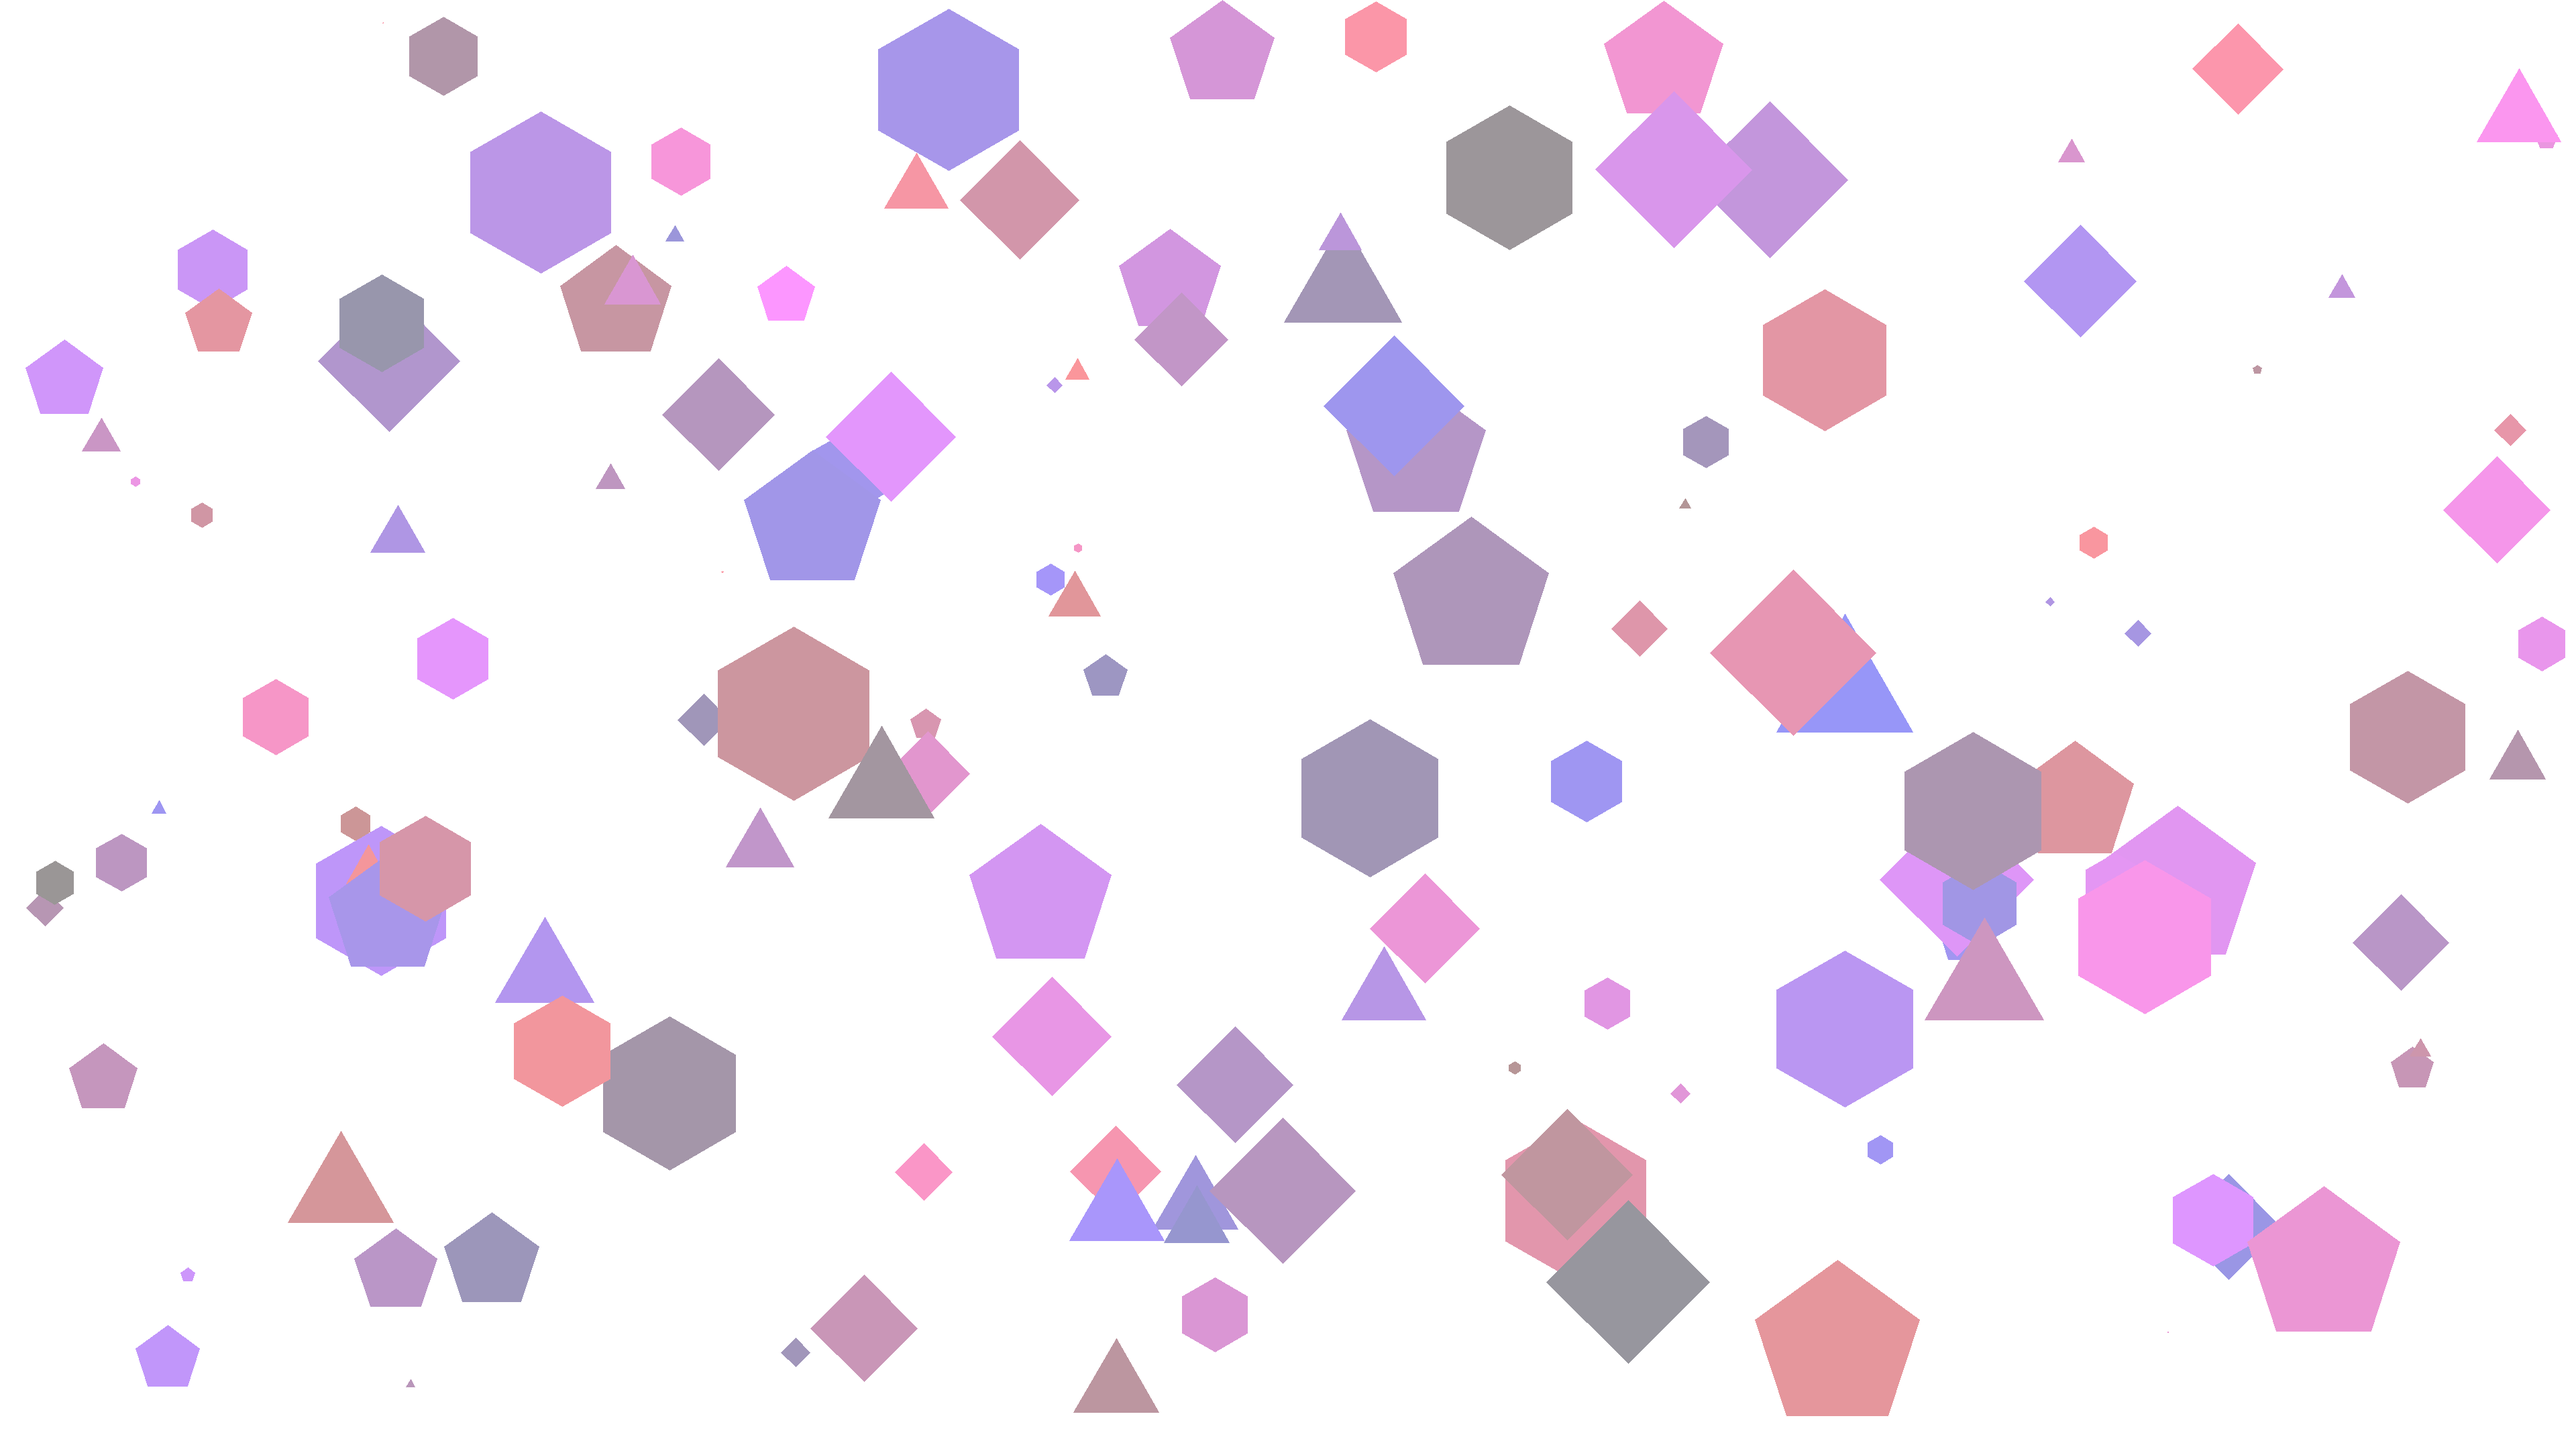
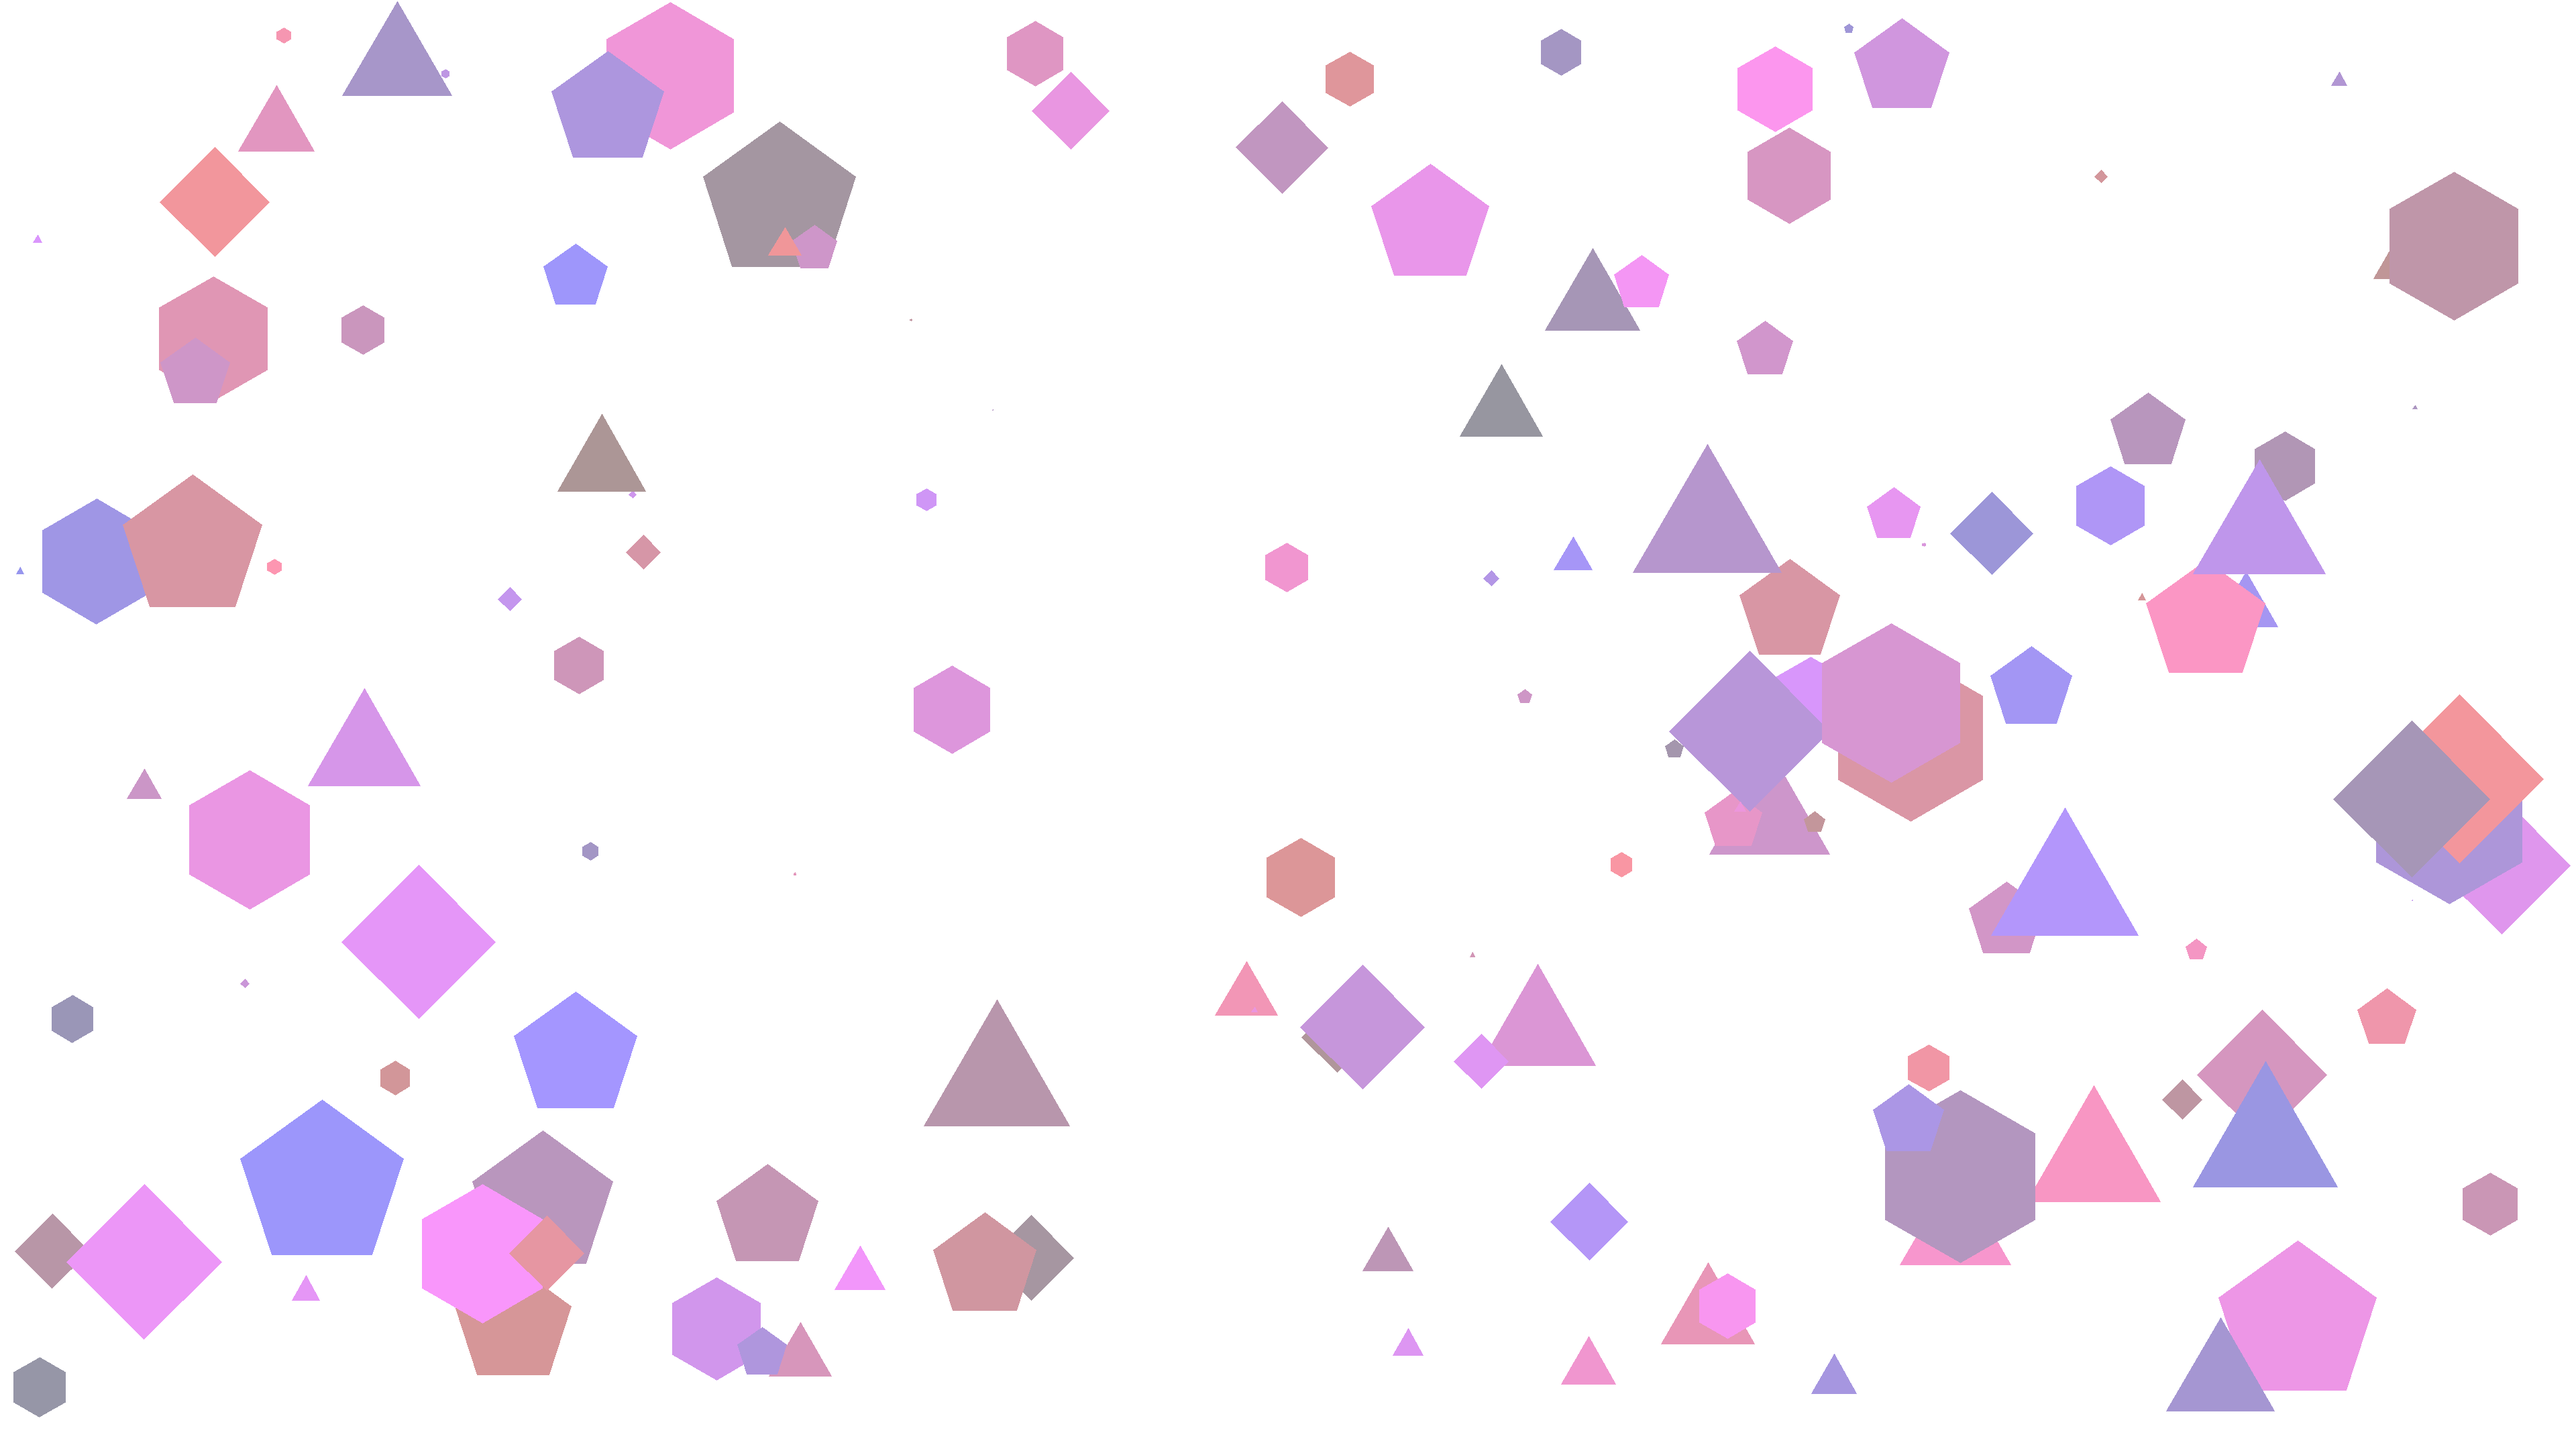
fixed transparency issues

diff --git a/allpages.js b/allpages.js
@@ -1,5 +1,5 @@
 setInterval(function() {
-  document.getElementsByClassName("layer1")[0].style.backgroundPositionY=window.scrollY+"px";
-  document.getElementsByClassName("layer2")[0].style.backgroundPositionY=window.scrollY*1.5+"px";
-  document.getElementsByClassName("layer3")[0].style.backgroundPositionY=window.scrollY*2+"px";
+  document.getElementsByClassName("layer1")[0].style.backgroundPositionY=window.scrollY*0.5+"px";
+  document.getElementsByClassName("layer2")[0].style.backgroundPositionY=window.scrollY*0.75+"px";
+  document.getElementsByClassName("layer3")[0].style.backgroundPositionY=window.scrollY*1+"px";
 },50);

diff --git a/assets/images/generaterandomshapes.py b/assets/images/generaterandomshapes.py
@@ -5,7 +5,7 @@ size = (1920*2,1080*2)
 scale = 3
 pointrange = (3,6)
 rotationrange = (180,180)
-im = Image.new('RGBA', size,"white")
+im = Image.new('RGBA', size)
 
 draw = ImageDraw.Draw(im)
 
